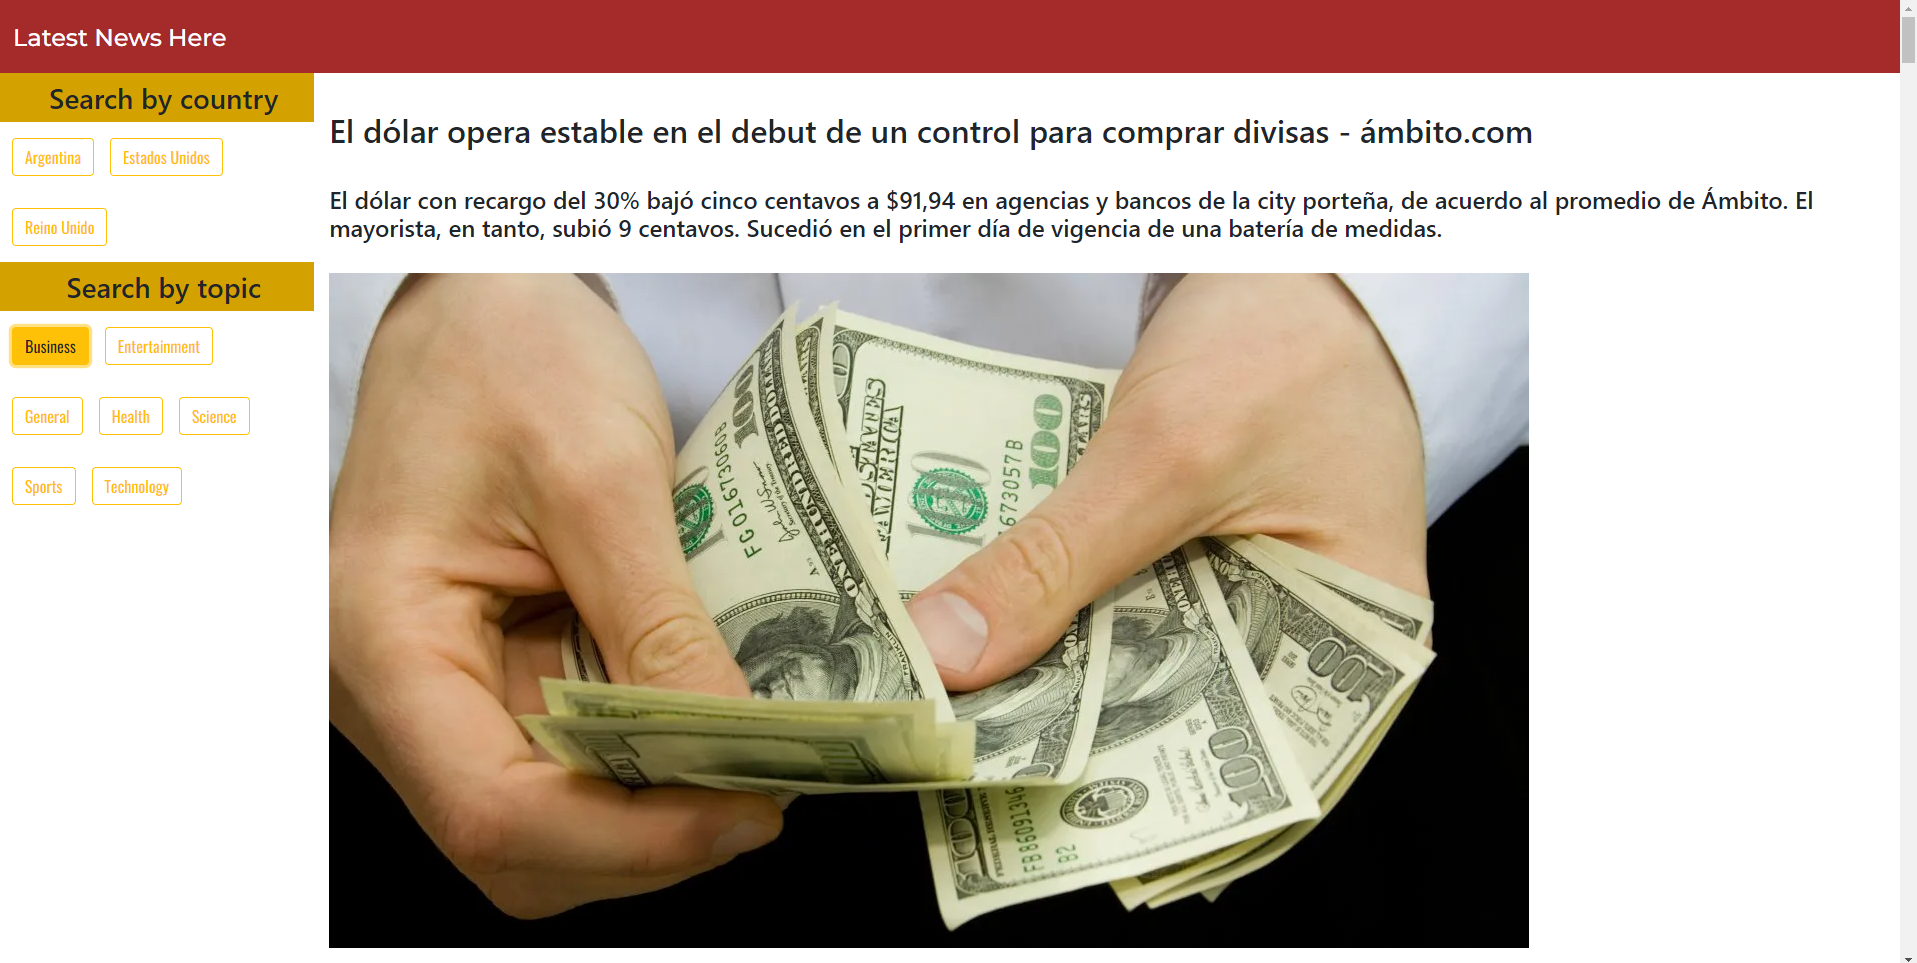
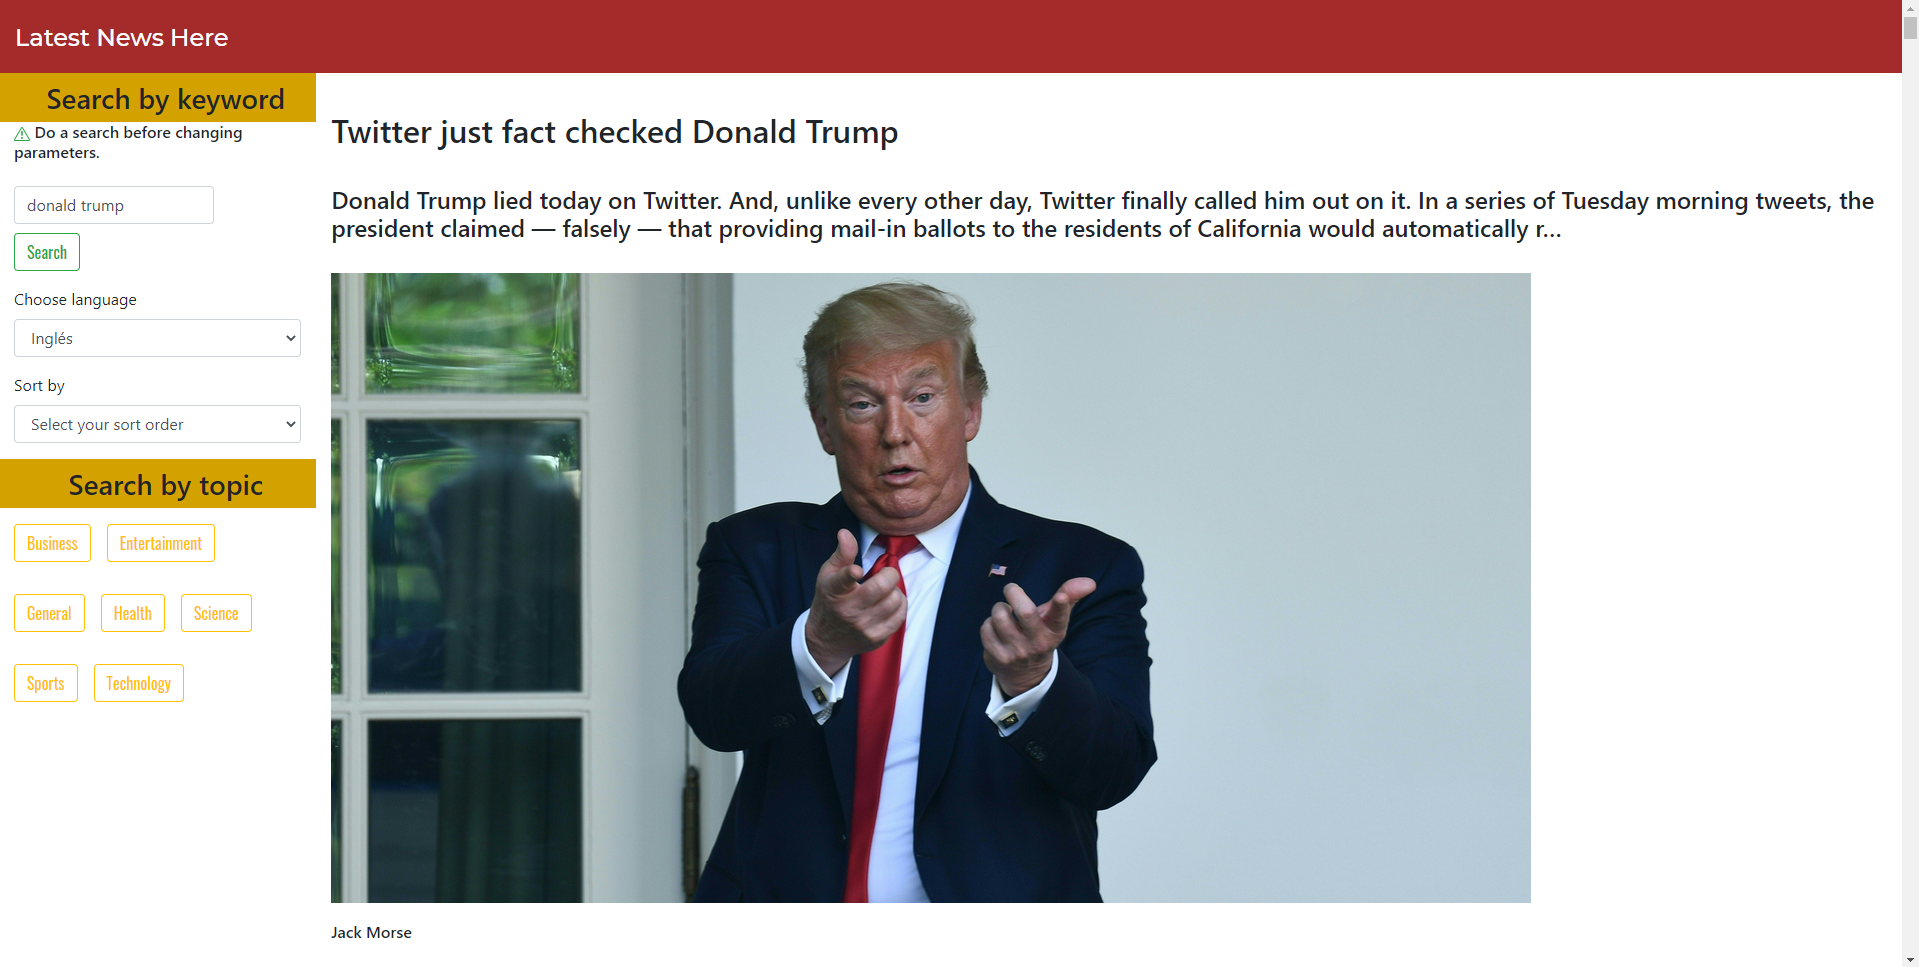
Se agregó una barra de búsqueda para búsquedas personalizadas. Dichas búsquedas pueden filtrarse por idioma y por tipo de orden (sort by). Se quitó la búsqueda por países ya que no era realmente útil

diff --git a/src/components/Home.js b/src/components/Home.js
@@ -1,38 +1,99 @@
 import React, { Component } from 'react'
 import '../App.css'
 
-var vanillaUrl = 'https://newsapi.org/v2/top-headlines?apiKey=e75e2e49fd7f4230911a5352c02c8c46&';
+var defaultUrl = 'https://newsapi.org/v2/top-headlines?apiKey=e75e2e49fd7f4230911a5352c02c8c46&country=ar'; //Default api call, url to search by topic. Just gives the top headlines
+
+var urlAll = 'https://newsapi.org/v2/everything?apiKey=e75e2e49fd7f4230911a5352c02c8c46'; //Url to fetch api call by search, language and sort. Gives all the record of news.
 
 export default class Home extends Component {
     
     constructor(props) {
         super(props);
-        this.state = { articles: [], currentCountry: '' };
-        this.changeCountry = this.changeCountry.bind(this);
-        this.changeTopic = this.changeTopic.bind(this);
+        this.state = { articles: [], search: '', currentLanguage: null, sortBy: null };
     }
     
     componentDidMount() {
-        this.setState ({ currentCountry: 'country=ar' }, console.log(this.state.currentCountry));
-        this.changeCountry('ar');
-        
+        this.apiCall(defaultUrl);
     }
 
     async apiCall(url) {
         const response = await fetch(url);
         const data = await response.json();
-        this.setState({ articles: data.articles });
+        this.setState({ 
+            articles: data.articles 
+        });
     }
-    
-    changeCountry(countryCode) {
-        let url = vanillaUrl + 'country=' + countryCode;
-        this.setState ({ currentCountry: 'country=' + countryCode }, console.log(this.state.currentCountry));
+
+    //API CALL TO HEADLINES = ONLY SEARCH BY TOPIC
+
+    changeTopic(newTopic) {
+        let url = defaultUrl + '&category=' + newTopic;
         this.apiCall(url);
     }
 
-    changeTopic(newTopic) {
-        let url = vanillaUrl + this.state.currentCountry + '&category=' + newTopic;
-        this.apiCall(url);
+    //API CALL TO EVERYTHING = SEARCH BY KEYWORD, SET LANGUAGE AND SORT BY
+
+    onChangeSearch = (e) => {
+        this.setState({
+            search: e.target.value
+        }, () => {
+            console.log(this.state.search);
+        })
+    }
+
+    onSubmitSearch = (e) => {
+        e.preventDefault();
+        if(this.state.sortBy == null && this.state.currentLanguage == null){
+            let url = urlAll + '&q=' + this.state.search;
+            url = encodeURI(url);
+            this.apiCall(url);
+        }else if(this.state.sortBy == null || this.state.currentLanguage == null){
+            if(this.state.sortBy == null){
+                let url = urlAll + '&q=' + this.state.search + '&language=' + this.state.currentLanguage;
+                url = encodeURI(url);
+                this.apiCall(url);
+            }else{
+                let url = urlAll + '&q=' + this.state.search + '&sortBy=' + this.state.sortBy;
+                url = encodeURI(url);
+                this.apiCall(url);
+            }
+        }else{
+            let url = urlAll + '&q=' + this.state.search + '&language=' + this.state.currentLanguage + '&sortBy=' + this.state.sortBy;
+            url = encodeURI(url);
+            this.apiCall(url);
+        }
+    }
+
+    onChangeLanguage = (e) => {
+        this.setState({ 
+            currentLanguage: e.target.value
+        }, () => {
+            if(this.state.sortBy == null){
+                let url = urlAll + '&language=' + this.state.currentLanguage + '&q=' + this.state.search;
+                url = encodeURI(url);
+                this.apiCall(url);
+            }else{
+                let url = urlAll + '&language=' + this.state.currentLanguage + '&q=' + this.state.search + '&sortBy=' + this.state.sortBy;
+                url = encodeURI(url);
+                this.apiCall(url);
+            }
+        })
+    }
+
+    onChangeSortBy = (e) => {
+        this.setState({ 
+            sortBy: e.target.value
+        }, () => {
+            if(this.state.currentLanguage == null){
+                let url = urlAll + '&sortBy=' + this.state.sortBy + '&q=' + this.state.search;
+                url = encodeURI(url);
+                this.apiCall(url);
+            }else{
+                let url = urlAll + '&sortBy=' + this.state.sortBy + '&q=' + this.state.search + '&language=' + this.state.currentLanguage;
+                url = encodeURI(url);
+                this.apiCall(url);
+            }
+        })
     }
 
     render(){
@@ -41,20 +102,52 @@ export default class Home extends Component {
                 <div className="row">
                     <div className="col">
                         <div className="row" id="search-parameter">
-                            <h3>Search by country</h3>
+                            <h3>Search by keyword</h3>
                         </div>
 
-                            <button type="button" className="btn btn-outline-warning" onClick={() => this.changeCountry('ar')}>
-                                Argentina
-                            </button>
+                            <h6>
+                                <svg class="bi bi-exclamation-triangle text-success" width="1em" height="1em" viewBox="0 0 16 16" fill="currentColor" xmlns="http://www.w3.org/2000/svg">
+                                    <path fill-rule="evenodd" d="M7.938 2.016a.146.146 0 0 0-.054.057L1.027 13.74a.176.176 0 0 0-.002.183c.016.03.037.05.054.06.015.01.034.017.066.017h13.713a.12.12 0 0 0 .066-.017.163.163 0 0 0 .055-.06.176.176 0 0 0-.003-.183L8.12 2.073a.146.146 0 0 0-.054-.057A.13.13 0 0 0 8.002 2a.13.13 0 0 0-.064.016zm1.044-.45a1.13 1.13 0 0 0-1.96 0L.165 13.233c-.457.778.091 1.767.98 1.767h13.713c.889 0 1.438-.99.98-1.767L8.982 1.566z"/>
+                                    <path d="M7.002 12a1 1 0 1 1 2 0 1 1 0 0 1-2 0zM7.1 5.995a.905.905 0 1 1 1.8 0l-.35 3.507a.552.552 0 0 1-1.1 0L7.1 5.995z"/>
+                                </svg> Do a search before changing parameters.
+                            </h6>
 
-                            <button type="button" className="btn btn-outline-warning" onClick={() => this.changeCountry('us')}>
-                                Estados Unidos
-                            </button>
+                            <form className="form-inline" onSubmit={this.onSubmitSearch}>
+                                <input
+                                className="form-control mr-sm-2"
+                                type="search"
+                                placeholder="Search"
+                                aria-label="Search"
+                                onChange={this.onChangeSearch}
+                                value={this.state.search}
+                                />
+                                <h1><br/></h1>
+                                <button className="btn btn-outline-success my-2 my-sm-0" type="submit">Search</button>
+                            </form>
 
-                            <button type="button" className="btn btn-outline-warning" onClick={() => this.changeCountry('gb')}>
-                                Reino Unido
-                            </button>
+                            <div class="form-group">
+                                <label for="exampleFormControlSelect1">Choose language</label>
+                                <select class="form-control" id="exampleFormControlSelect1" onChange={this.onChangeLanguage} value={this.state.currentLanguage}>
+                                <option value="" disabled selected>Select your language</option>
+                                <option value="es">Español</option>
+                                <option value="en">Inglés</option>
+                                <option value="pt">Portugués</option>
+                                <option value="fr">Francés</option>
+                                <option value="it">Italiano</option>
+                                <option value="de">Alemán</option>
+                                </select>
+                            </div>
+ 
+                            <div class="form-group">
+                                <label for="exampleFormControlSelect1">Sort by</label>
+                                <select class="form-control" id="exampleFormControlSelect1" onChange={this.onChangeSortBy} value={this.state.sortBy}>
+                                <option value="" disabled selected>Select your sort order</option>
+                                <option value="relevancy">relevancy</option>
+                                <option value="popularity">popularity</option>
+                                <option value="publishedAt">published at</option>
+                                </select>
+                            </div>
+
 
                         <div className="row" id="search-parameter">
                             <h3>Search by topic</h3>

diff --git a/src/components/Navbar.js b/src/components/Navbar.js
@@ -1,15 +1,27 @@
 import React, { Component } from 'react'
 import '../App.css'
 
+//Components
+//import Home from './Home'
+
 export default class Navbar extends Component {
-    
+
+    /*
+    accessHome = () => {
+        this.refs.home.apiCall('https://newsapi.org/v2/top-headlines?apiKey=e75e2e49fd7f4230911a5352c02c8c46&country=ar');
+    }
+    */
+
     render() {
         return (
-            <nav className="navbar navbar-light">
-                <a className="navbar-brand" href="#">
-                    <h4 id="navTitle">Latest News Here</h4>
-                </a>
-            </nav>
+            <div>
+                <nav className="navbar navbar-light">
+                    <a className="navbar-brand" href='#' onClick={this.accessHome}>
+                        <h4 id="navTitle">Latest News Here</h4>
+                    </a>
+                </nav>
+                {/*<Home ref='home'/>*/}
+            </div>
         )
     }
 }

diff --git a/src/App.css b/src/App.css
@@ -34,6 +34,12 @@ hr {
     background-color: #d4a200;
 }
 
+form {
+    margin-top: 1em;
+    margin-right: 1em;
+    margin-bottom: 1em;
+}
+
 button {
     font-family: 'Oswald', sans-serif;
     margin-top: 1em;

diff --git a/README.md b/README.md
@@ -8,3 +8,7 @@
 
 ![Application Screenshot 3](./screenshots/example3.png)
 
+![Application Screenshot 3](./screenshots/example4.png)
+
+![Application Screenshot 3](./screenshots/example5.png)
+
